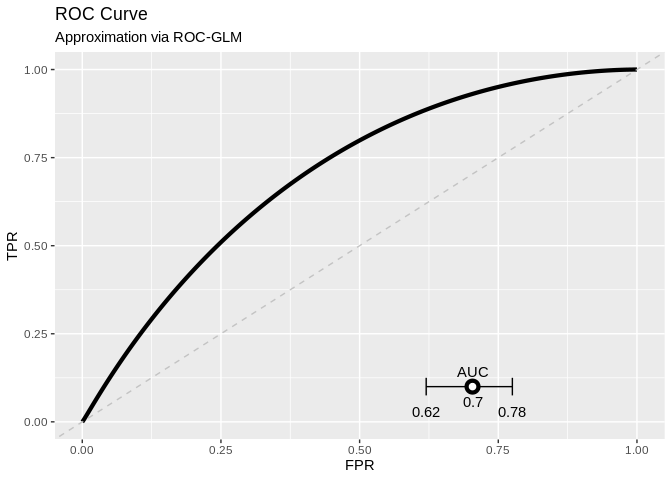
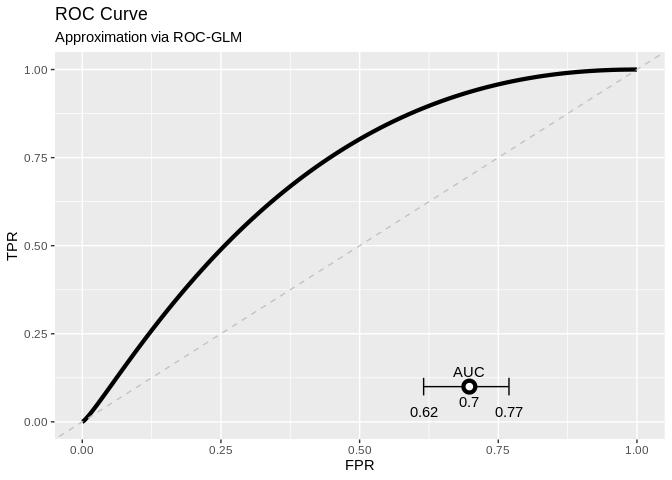
generated

diff --git a/tables/tab-results.tex b/tables/tab-results.tex
@@ -1,11 +1,11 @@
-\newcommand{\cidistlower}{0.62}
-\newcommand{\cidistupper}{0.7754}
+\newcommand{\cidistlower}{0.6154}
+\newcommand{\cidistupper}{0.7693}
 \newcommand{\ciemplower}{0.61}
 \newcommand{\ciempupper}{0.7578}
-\newcommand{\aucdist}{0.7036}
+\newcommand{\aucdist}{0.6979}
 \newcommand{\aucpooled}{0.6887}
-\newcommand{\rocglmparamOne}{0.8373}
-\newcommand{\rocglmparamTwo}{1.2052}
+\newcommand{\rocglmparamOne}{0.8498}
+\newcommand{\rocglmparamTwo}{1.2995}
 \newcommand{\bsemp}{0.1721}
 \newcommand{\ts}{730}
 \newcommand{\nOne}{56}

diff --git a/README.md b/README.md
@@ -36,8 +36,9 @@ using the distributed
 The following contains the preparation of test data and a test model as
 [setup](#setup) while the second part is the [analysis](#analysis).
 
-Last time rendered: 10:35 - 04. Mar 2022 by user runner Autobuild:
-[![Render
+Last time rendered: 11:27 - 04. Mar 2022 by user runner
+
+Autobuild: [![Render
 README](https://github.com/difuture-lmu/datashield-demo-survival/actions/workflows/render-readme.yaml/badge.svg)](https://github.com/difuture-lmu/datashield-demo-survival/actions/workflows/render-readme.yaml)
 
 ### Structure of the repository
@@ -91,7 +92,7 @@ remotes::install_github("difuture-lmu/dsPredictBase", upgrade = "never")
 #> Installing 12 packages: gridExtra, dotCall64, data.table, pbapply, mathjaxr, maps, viridis, spam, panelaggregation, metafor, fields, DSI
 #> Installing packages into '/home/runner/work/_temp/Library'
 #> (as 'lib' is unspecified)
-#> * checking for file ‘/tmp/Rtmp4jeivk/remotes8fc671fd743a/datashield-dsBaseClient-d22ba51/DESCRIPTION’ ... OK
+#> * checking for file ‘/tmp/RtmpbA6odI/remotes8f477d2c99b2/datashield-dsBaseClient-d22ba51/DESCRIPTION’ ... OK
 #> * preparing ‘dsBaseClient’:
 #> * checking DESCRIPTION meta-information ... OK
 #> * checking for LF line-endings in source and make files and shell scripts
@@ -104,7 +105,7 @@ remotes::install_github("difuture-lmu/dsPredictBase", upgrade = "never")
 #> (as 'lib' is unspecified)
 #> Skipping install of 'dsBaseClient' from a github remote, the SHA1 (d22ba514) has not changed since last install.
 #>   Use `force = TRUE` to force installation
-#> * checking for file ‘/tmp/Rtmp4jeivk/remotes8fc619ac7c84/difuture-lmu-dsPredictBase-ed79fd1/DESCRIPTION’ ... OK
+#> * checking for file ‘/tmp/RtmpbA6odI/remotes8f4772a0e64d/difuture-lmu-dsPredictBase-ed79fd1/DESCRIPTION’ ... OK
 #> * preparing ‘dsPredictBase’:
 #> * checking DESCRIPTION meta-information ... OK
 #> * checking for LF line-endings in source and make files and shell scripts
@@ -120,7 +121,7 @@ remotes::install_github("difuture-lmu/dsPredictBase", upgrade = "never")
 remotes::install_github("difuture-lmu/dsCalibration", upgrade = "never")
 #> Using github PAT from envvar GITHUB_PAT
 #> Downloading GitHub repo difuture-lmu/dsCalibration@HEAD
-#> * checking for file ‘/tmp/Rtmp4jeivk/remotes8fc6327d793/difuture-lmu-dsCalibration-1805632/DESCRIPTION’ ... OK
+#> * checking for file ‘/tmp/RtmpbA6odI/remotes8f471039e2ca/difuture-lmu-dsCalibration-1805632/DESCRIPTION’ ... OK
 #> * preparing ‘dsCalibration’:
 #> * checking DESCRIPTION meta-information ... OK
 #> * checking for LF line-endings in source and make files and shell scripts
@@ -131,7 +132,7 @@ remotes::install_github("difuture-lmu/dsCalibration", upgrade = "never")
 remotes::install_github("difuture-lmu/dsROCGLM", upgrade = "never")
 #> Using github PAT from envvar GITHUB_PAT
 #> Downloading GitHub repo difuture-lmu/dsROCGLM@HEAD
-#> * checking for file ‘/tmp/Rtmp4jeivk/remotes8fc65e5b343a/difuture-lmu-dsROCGLM-0c7475c/DESCRIPTION’ ... OK
+#> * checking for file ‘/tmp/RtmpbA6odI/remotes8f474cf1f910/difuture-lmu-dsROCGLM-0c7475c/DESCRIPTION’ ... OK
 #> * preparing ‘dsROCGLM’:
 #> * checking DESCRIPTION meta-information ... OK
 #> * checking for LF line-endings in source and make files and shell scripts
@@ -252,10 +253,10 @@ load(here::here("data/mod.Rda"))
 ## Push the model to the servers (upload takes ~11 Minutes):
 t0 = proc.time()
 pushObject(conn, obj = mod)
-#> [2022-03-04 10:38:04] Your object is bigger than 1 MB (14.4 MB). Uploading larger objects may take some time.
+#> [2022-03-04 11:29:30] Your object is bigger than 1 MB (14.4 MB). Uploading larger objects may take some time.
 (t0 = proc.time() - t0)
 #>    user  system elapsed 
-#> 105.423  53.551 771.067
+#>  80.114  80.490 796.383
 datashield.symbols(conn)
 #> $ds1
 #> [1] "D"   "mod"
@@ -416,34 +417,34 @@ sqrt(2 * log(1.25 / delta)) * l2s / epsilon
 roc_glm = dsROCGLM(conn, "D$valid", "pinv", epsilon = epsilon,
   delta = delta, dat_name = "D", seed_object = "D$age")
 #> 
-#> [2022-03-04 10:51:36] L2 sensitivity is: 0.016
+#> [2022-03-04 11:43:18] L2 sensitivity is: 0.016
 #> 
-#> [2022-03-04 10:51:39] Initializing ROC-GLM
+#> [2022-03-04 11:43:20] Initializing ROC-GLM
 #> 
-#> [2022-03-04 10:51:39] Host: Received scores of negative response
-#> [2022-03-04 10:51:39] Receiving negative scores
-#> [2022-03-04 10:51:42] Host: Pushing pooled scores
-#> [2022-03-04 10:51:46] Server: Calculating placement values and parts for ROC-GLM
-#> [2022-03-04 10:51:49] Server: Calculating probit regression to obtain ROC-GLM
-#> [2022-03-04 10:51:52] Deviance of iter1=32.6342
-#> [2022-03-04 10:51:56] Deviance of iter2=40.6333
-#> [2022-03-04 10:51:59] Deviance of iter3=44.0218
-#> [2022-03-04 10:52:02] Deviance of iter4=44.2391
-#> [2022-03-04 10:52:06] Deviance of iter5=44.24
-#> [2022-03-04 10:52:09] Deviance of iter6=44.24
-#> [2022-03-04 10:52:09] Host: Finished calculating ROC-GLM
-#> [2022-03-04 10:52:09] Host: Cleaning data on server
-#> [2022-03-04 10:52:12] Host: Calculating AUC and CI
-#> [2022-03-04 10:52:28] Finished!
+#> [2022-03-04 11:43:20] Host: Received scores of negative response
+#> [2022-03-04 11:43:20] Receiving negative scores
+#> [2022-03-04 11:43:23] Host: Pushing pooled scores
+#> [2022-03-04 11:43:25] Server: Calculating placement values and parts for ROC-GLM
+#> [2022-03-04 11:43:27] Server: Calculating probit regression to obtain ROC-GLM
+#> [2022-03-04 11:43:30] Deviance of iter1=32.6342
+#> [2022-03-04 11:43:32] Deviance of iter2=39.903
+#> [2022-03-04 11:43:35] Deviance of iter3=43.871
+#> [2022-03-04 11:43:37] Deviance of iter4=44.1624
+#> [2022-03-04 11:43:40] Deviance of iter5=44.1639
+#> [2022-03-04 11:43:42] Deviance of iter6=44.1639
+#> [2022-03-04 11:43:42] Host: Finished calculating ROC-GLM
+#> [2022-03-04 11:43:42] Host: Cleaning data on server
+#> [2022-03-04 11:43:45] Host: Calculating AUC and CI
+#> [2022-03-04 11:43:57] Finished!
 roc_glm
 #> 
 #> ROC-GLM after Pepe:
 #> 
-#>  Binormal form: pnorm(0.84 + 1.21*qnorm(t))
+#>  Binormal form: pnorm(0.85 + 1.3*qnorm(t))
 #> 
-#>  AUC and 0.95 CI: [0.62----0.7----0.78]
+#>  AUC and 0.95 CI: [0.62----0.7----0.77]
 roc_glm$ci
-#> [1] 0.6200175 0.7753865
+#> [1] 0.6154094 0.7692622
 
 gg_distr_roc = plot(roc_glm)
 gg_distr_roc
@@ -493,7 +494,7 @@ auc = pROC::auc(dat_test$valid, 1 - probs)
 #> Setting direction: controls < cases
 c(auc_emp = auc, auc_distr_roc_glm = roc_glm$auc)
 #>           auc_emp auc_distr_roc_glm 
-#>         0.6886905         0.7035586
+#>         0.6886905         0.6978602
 
 source(here::here("R/helper.R"))
 (ci_emp = logitToAUC(pepeCI(toLogit(auc), 0.05, deLongVar(1 - probs, dat_test$valid))))
